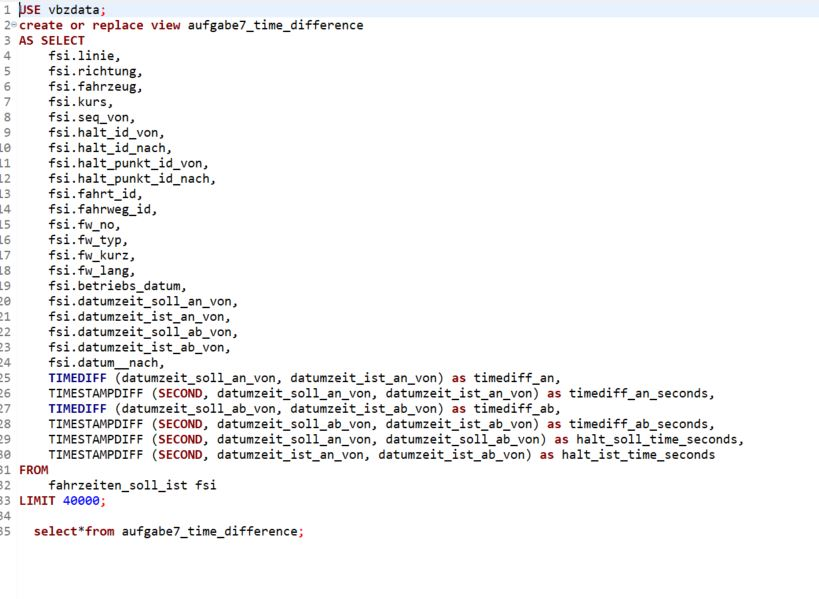
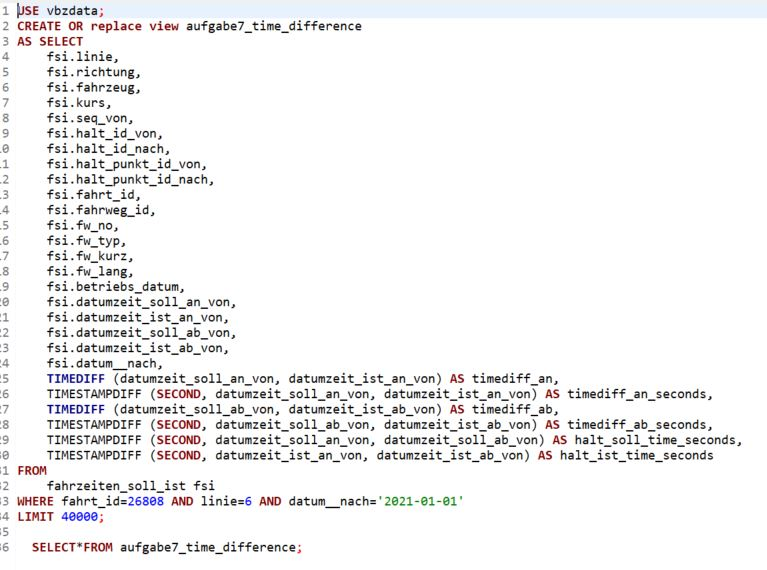
add

Changed region(s): [[0.0, 0.0, 0.9596, 0.9842]]

diff --git a/ReadMe/Aufgabe7.md b/ReadMe/Aufgabe7.md
@@ -54,3 +54,7 @@ Das auszuführende Script sieht wie folgt aus:
 ![script](/Images/Aufgabe7/script.jpg)
 
 Link zum Script: [Aufgabe 7](/Scripts/Aufgabe7/Aufgabe7.sql)
+
+Die Anzeige sieht wie folgt aus(Ausschnitt):
+
+![view](/Images/Aufgabe7/view.jpg)

diff --git a/ReadMe/Aufgabe6.md b/ReadMe/Aufgabe6.md
@@ -119,4 +119,4 @@ Für all diese Schritte erhält man am Schluss dieses Script:
 
 ![script](/Images/Aufgabe6/script.jpg)
 
-Link zum ERD:[Script](/Scripts/Aufgabe6/Aufgabe6.sql)
+Link zum Script:[Script](/Scripts/Aufgabe6/Aufgabe6.sql)
